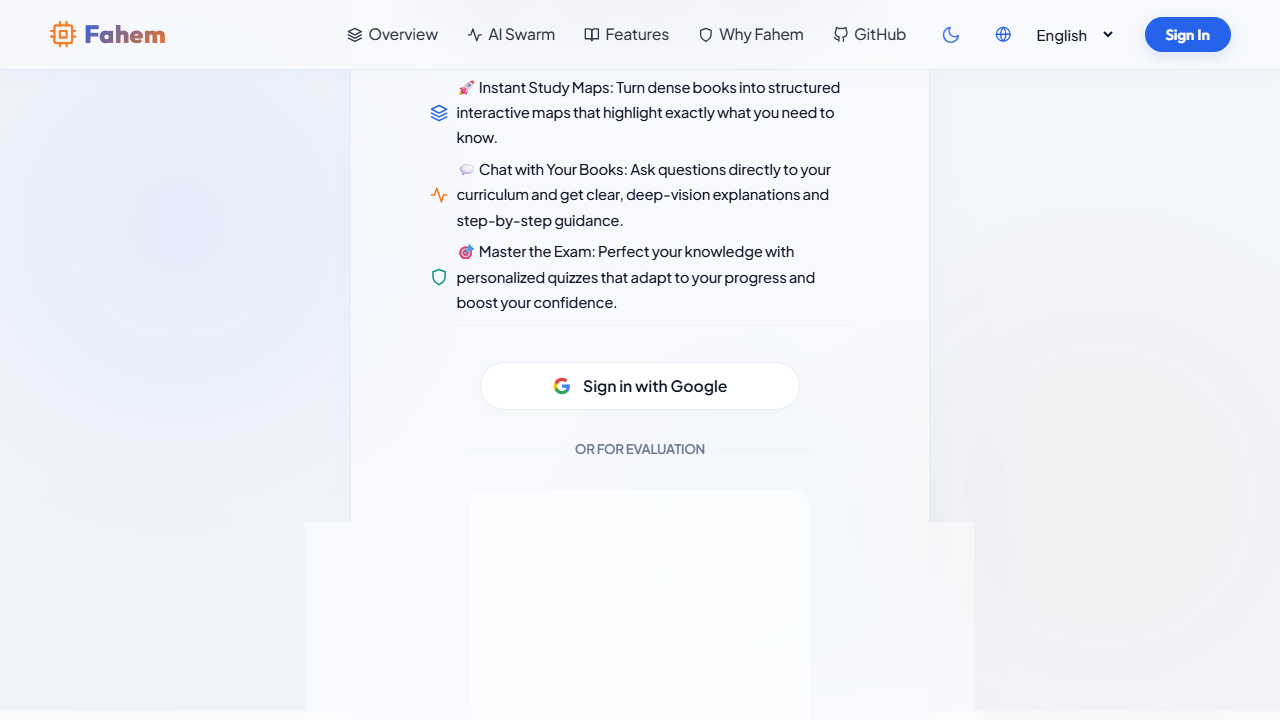
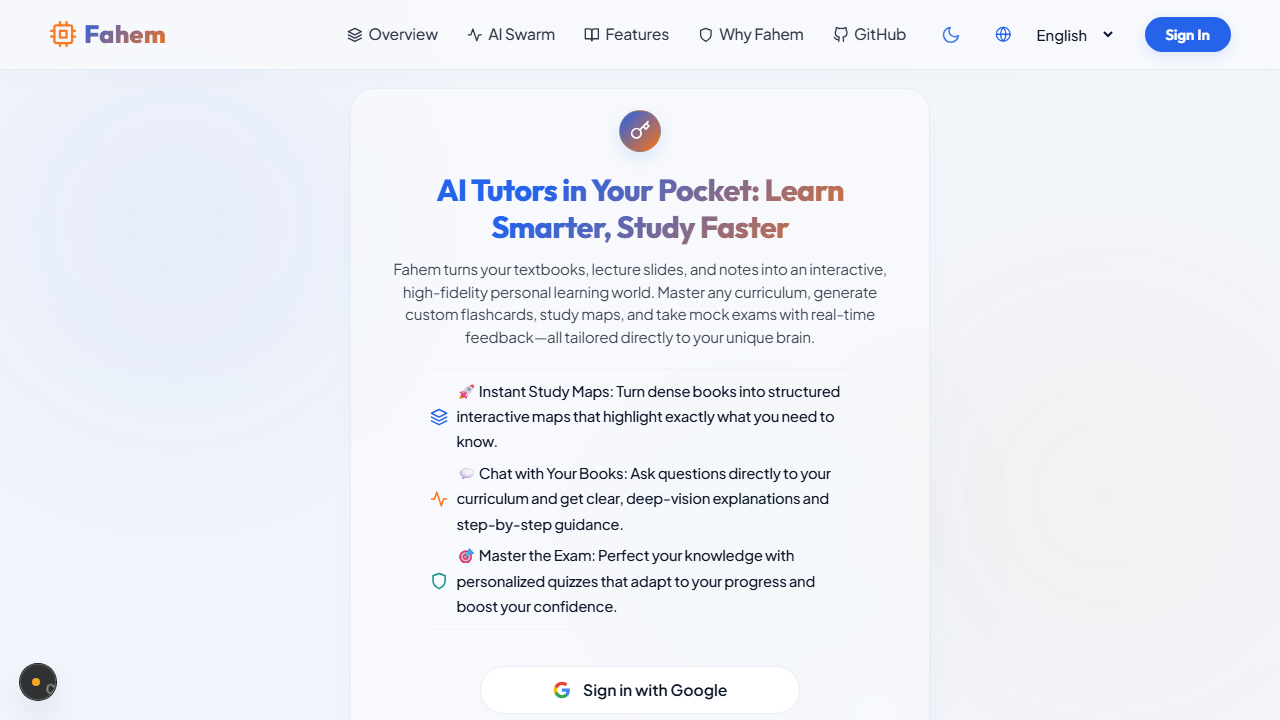
chore: update backend URLs in guard_deploy and guard_smoke

diff --git a/web/src/app/api/admin/demo-action/route.ts b/web/src/app/api/admin/demo-action/route.ts
@@ -1,5 +1,5 @@
 import { NextRequest } from "next/server";
-import { getLocalDb, saveLocalDb, isLocalEnv } from "../../localDbHelper";
+import { getLocalDb, saveLocalDb, isLocalEnv, dbContextStorage } from "../../localDbHelper";
 import { requireAdmin } from "../../_auth";
 import { proxyRequest } from "../../proxy";
 
@@ -43,6 +43,45 @@ export async function POST(req: NextRequest) {
         db.demo_sessions[index].status = "killed";
         db.demo_sessions[index].ended_at = Math.floor(Date.now() / 1000);
         db.demo_sessions[index].kill_reason = "Admin intervention";
+
+        // Wipe local session-tagged data in sandbox database
+        const uid = db.demo_sessions[index].uid;
+        if (uid) {
+          dbContextStorage.run({ db_target: "fahem_sandbox" }, () => {
+            const sandboxDb = getLocalDb() as any;
+            
+            // Collections to purge
+            const collectionsToPurge = [
+              "users",
+              "user_profiles",
+              "messages",
+              "threads",
+              "social_threads",
+              "social_replies",
+              "companion_facts",
+              "companion_memories",
+              "active_practice_sessions",
+              "demo_activities",
+              "reading_sessions",
+              "user_activities",
+              "notifications"
+            ];
+            
+            collectionsToPurge.forEach((colName) => {
+              if (sandboxDb[colName] && Array.isArray(sandboxDb[colName])) {
+                const initialCount = sandboxDb[colName].length;
+                sandboxDb[colName] = sandboxDb[colName].filter((item: any) => {
+                  const matchesUid = item.userId === uid || item.uid === uid || item.recipient_uid === uid || item.author_id === uid || item.authorId === uid;
+                  const matchesSession = item.sandbox_session_id === sandbox_session_id;
+                  return !matchesUid && !matchesSession;
+                });
+                console.log(`[local-demo-action] Cleaned up '${colName}' in local fahem_sandbox: removed ${initialCount - sandboxDb[colName].length} docs`);
+              }
+            });
+            
+            saveLocalDb(sandboxDb);
+          });
+        }
       } else if (action === "quota") {
         db.demo_sessions[index].token_budget = Number(quota_value) || 250000;
       }

diff --git a/web/src/app/api/demo/enter/route.ts b/web/src/app/api/demo/enter/route.ts
@@ -76,6 +76,7 @@ export async function POST(req: NextRequest) {
     const sessionDoc = {
       _id: "demo_session_" + Date.now() + "_" + Math.random().toString(36).substring(2, 7),
       sandbox_session_id: sandboxSessionId,
+      uid: uid,
       email: email,
       verified: isVerified,
       tier: tier,

diff --git a/agents/services.py b/agents/services.py
@@ -3078,6 +3078,50 @@ def register_telemetry_route(app: fastapi.FastAPI):
                         }
                     }
                 )
+                
+                # Perform sandbox database clean-up to fully restore the baseline
+                uid = session.get("uid")
+                email = session.get("email")
+                
+                if uid:
+                    logger.info(f"[demo-action] Killing session. Starting clean-up in fahem_sandbox for uid={uid}, email={email}")
+                    try:
+                        sandbox_db = client["fahem_sandbox"]
+                        
+                        # Collections and query fields to search and delete
+                        purge_configs = [
+                            ("users", [{"userId": uid}, {"email": email}]),
+                            ("user_profiles", [{"userId": uid}, {"email": email}]),
+                            ("messages", [{"userId": uid}, {"senderId": uid}]),
+                            ("threads", [{"userId": uid}, {"creatorId": uid}]),
+                            ("social_threads", [{"userId": uid}, {"creatorId": uid}, {"authorId": uid}]),
+                            ("social_replies", [{"userId": uid}, {"authorId": uid}]),
+                            ("companion_facts", [{"userId": uid}]),
+                            ("companion_memories", [{"userId": uid}]),
+                            ("active_practice_sessions", [{"userId": uid}]),
+                            ("demo_activities", [{"userId": uid}]),
+                            ("reading_sessions", [{"userId": uid}]),
+                            ("user_activities", [{"userId": uid}]),
+                            ("notifications", [{"recipient_uid": uid}, {"userId": uid}])
+                        ]
+                        
+                        for col_name, queries in purge_configs:
+                            valid_or = []
+                            for q in queries:
+                                clean_q = {k: v for k, v in q.items() if v}
+                                if clean_q:
+                                    valid_or.append(clean_q)
+                                    
+                            if valid_or:
+                                or_query = {"$or": valid_or}
+                                try:
+                                    res = sandbox_db[col_name].delete_many(or_query)
+                                    logger.info(f"[demo-action] Cleaned up '{col_name}' in fahem_sandbox: deleted {res.deleted_count} docs matching {or_query}")
+                                except Exception as col_err:
+                                    logger.error(f"[demo-action] Error purging collection '{col_name}': {col_err}")
+                                    
+                    except Exception as purge_err:
+                        logger.error(f"[demo-action] Failed sandbox clean-up sequence: {purge_err}", exc_info=True)
             elif action == "quota":
                 session_col.update_one(
                     {"sandbox_session_id": sandbox_session_id},

diff --git a/agents/query_cloud_run_users.py b/agents/query_cloud_run_users.py
@@ -1,7 +1,7 @@
 import httpx
 import json
 
-url = "https://fahem-agent-sbqsl5tfga-uk.a.run.app/user/list"
+url = "https://fahem-agent-1061555578804.us-east4.run.app/user/list"
 print("Querying Cloud Run user list...")
 try:
     res = httpx.get(url, timeout=10.0)

diff --git a/scripts/guard_deploy.py b/scripts/guard_deploy.py
@@ -52,7 +52,7 @@ def main():
         be_url = "http://localhost:8000/health"
     else:
         fe_url = "https://fahem.pro/api/version"
-        be_url = "https://fahem-agent-sbqsl5tfga-uk.a.run.app/health"
+        be_url = "https://fahem-agent-1061555578804.us-east4.run.app/health"
         
     fe_data = fetch_json(fe_url, "Frontend Version")
     be_data = fetch_json(be_url, "Backend Health")

diff --git a/scripts/guard_smoke.py b/scripts/guard_smoke.py
@@ -174,7 +174,7 @@ def main():
         be_url = "http://localhost:8000/health"
     else:
         fe_url = "https://fahem.pro/api/version"
-        be_url = "https://fahem-agent-sbqsl5tfga-uk.a.run.app/health"
+        be_url = "https://fahem-agent-1061555578804.us-east4.run.app/health"
 
     fe_data = fetch_json(fe_url, "Frontend") or {}
     be_data = fetch_json(be_url, "Backend") or {}